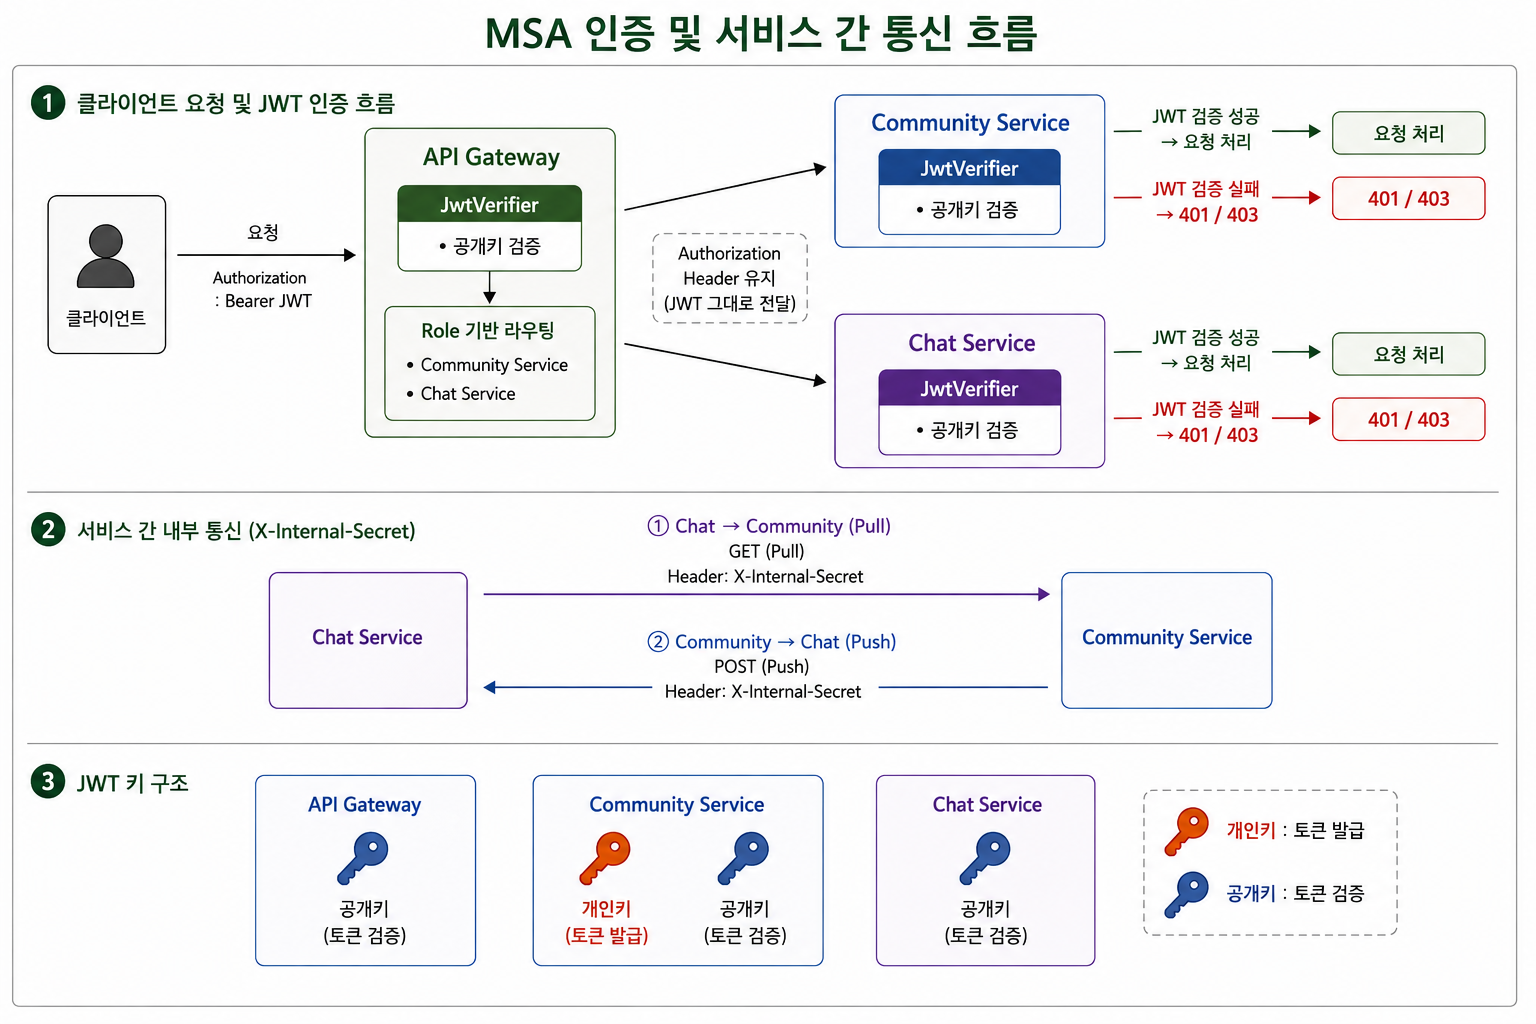
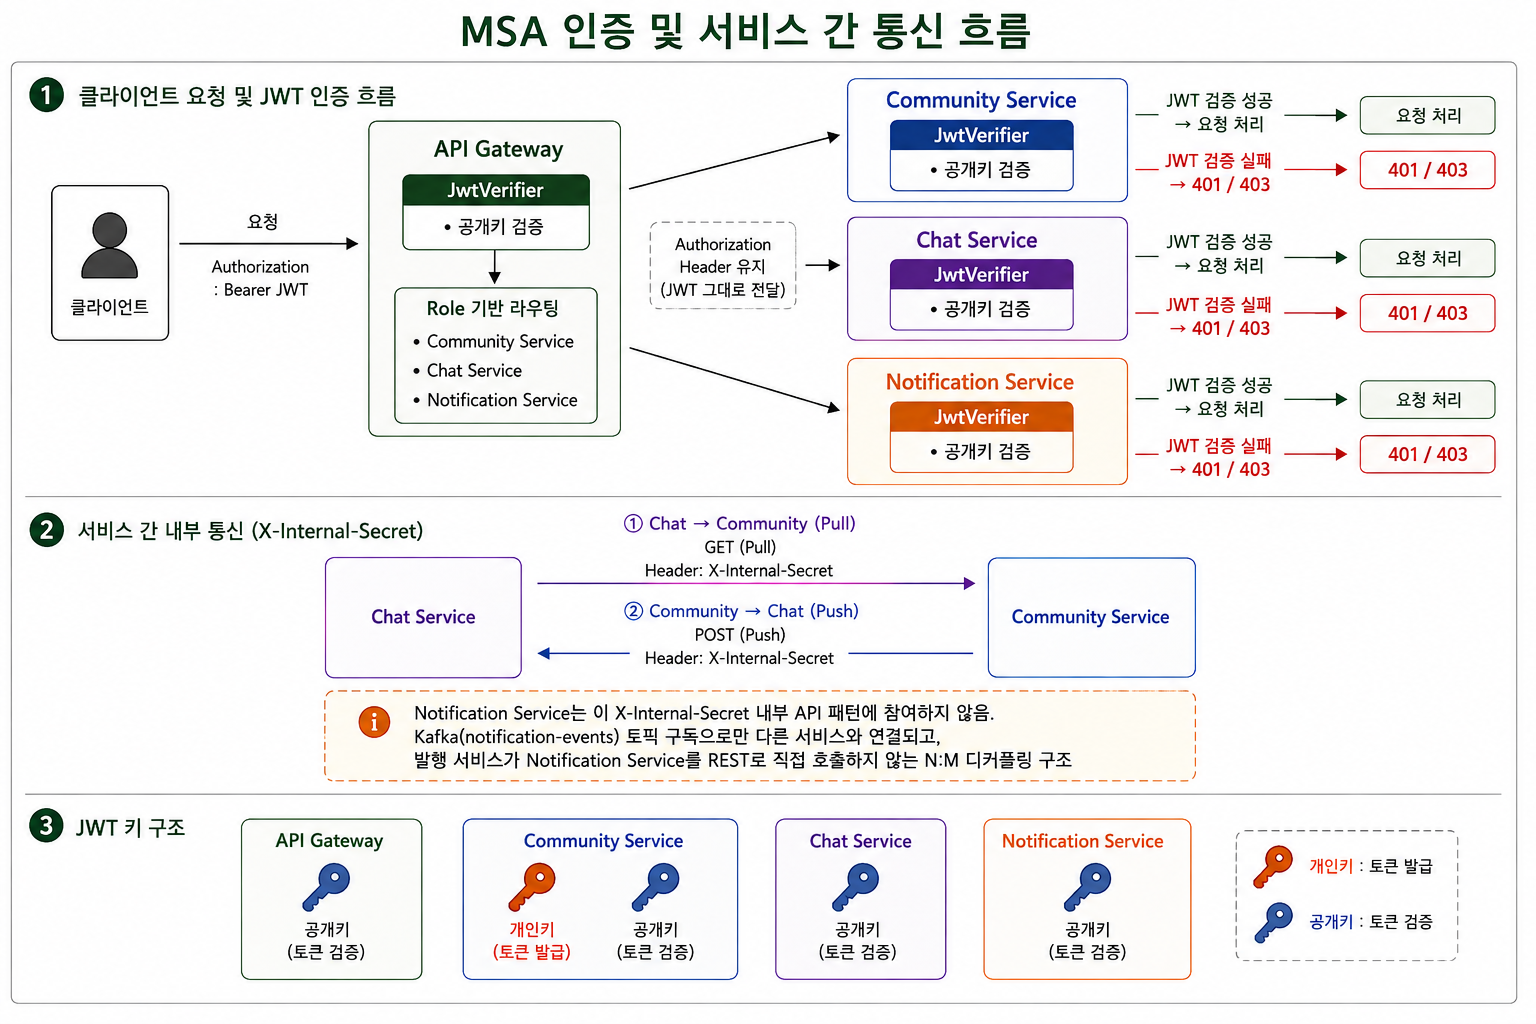
[refactor] 채팅 Redis Pub/Sub 브로드캐스트 도입 + 아키텍처 다이어그램 업데이트 (#48)
* [refactor:chat-service] STOMP 브로드캐스트를 Redis Pub/Sub 기반으로 전환

chat-service가 다중 인스턴스로 늘어나면 STOMP 심플 브로커가 인스턴스별
인메모리라 다른 인스턴스에 붙은 세션에는 메시지가 전달되지 않는 문제가
있었다. 전송 직전에 Redis 채널(chat:broadcast)로 먼저 발행하고 모든
인스턴스가 이를 구독해 각자 로컬 세션에 재전달하도록 변경 — 대상
세션이 그 인스턴스에 없으면 스프링이 조용히 무시하므로 별도 추적이
필요 없다. 아티스트 방송, 팬 메시지(echo·아티스트 inbox), 멤버십 만료
알림까지 SimpMessagingTemplate을 직접 호출하던 4곳 전부 이 경로로 통일.

로컬 도커로 chat-service 2인스턴스를 직접 띄워 교차 전달을 검증하는
과정에서, Spring Boot 4.1 기본 Jackson(tools.jackson) 대신 잘못된
Jackson 2 ObjectMapper를 주입받아 기동 자체가 실패하던 버그를 발견해
같이 수정.

* [readme] 아키텍처 다이어그램에 Notification Service·Kafka 반영

아키텍처/서비스 통신 다이어그램이 Notification Service·Kafka 도입
이전 상태로 남아있던 걸 갱신. API Gateway의 Notification Service
라우팅, outbox 발행→Kafka→consume 흐름, Redis 실제 용도(세션·캐시·
카운터·pub-sub 중계·알림저장) 라벨을 반영. README 이미지 참조 경로도
변경된 파일명(아키텍처 최최종.png)에 맞춰 수정.

* [fix:chat-service] 브로드캐스트 발행 시 Redis 장애도 흡수하도록 처리

ChatBroadcastPublisher.publish()가 JSON 직렬화 실패만 잡고 있어서, Redis
연결 장애 시 던져지는 DataAccessException이 그대로 STOMP 핸들러까지
전파돼 세션이 끊길 수 있었다(코드리뷰 지적). 메시지는 이미 DB에 저장된
뒤라 브로드캐스트 발행 실패가 요청 전체를 실패시킬 이유는 없어서,
MembershipCache와 동일한 fail-safe 방침으로 DataAccessException도
로그만 남기고 흡수하도록 수정.

diff --git a/chat-service/src/main/java/com/miniweverse/chat/broadcast/ChatBroadcastPublisher.java b/chat-service/src/main/java/com/miniweverse/chat/broadcast/ChatBroadcastPublisher.java
@@ -1,0 +1,62 @@
+package com.miniweverse.chat.broadcast;
+
+import com.miniweverse.chat.dto.ChatMessageResponse;
+import com.miniweverse.chat.membership.MembershipExpiredNotice;
+import org.slf4j.Logger;
+import org.slf4j.LoggerFactory;
+import org.springframework.dao.DataAccessException;
+import org.springframework.data.redis.core.StringRedisTemplate;
+import org.springframework.data.redis.listener.ChannelTopic;
+import org.springframework.stereotype.Component;
+import tools.jackson.core.JacksonException;
+import tools.jackson.databind.ObjectMapper;
+
+/**
+ * chat-service가 여러 인스턴스로 늘어나면 STOMP 심플 브로커는 인스턴스별 인메모리라
+ * 로컬로만 보내는 것으로는 다른 인스턴스에 붙은 세션까지 전달되지 않는다. 그래서 실제
+ * 전송 전에 Redis 채널로 먼저 발행해, 모든 인스턴스가 ChatBroadcastSubscriber를 통해
+ * 각자 로컬 세션에 다시 전달하게 한다(발행한 인스턴스 자신도 동일하게 구독해서 받는다).
+ */
+@Component
+public class ChatBroadcastPublisher {
+
+    private static final Logger log = LoggerFactory.getLogger(ChatBroadcastPublisher.class);
+
+    private final StringRedisTemplate redisTemplate;
+    private final ChannelTopic topic;
+    private final ObjectMapper objectMapper;
+
+    public ChatBroadcastPublisher(
+            StringRedisTemplate redisTemplate,
+            ChannelTopic chatBroadcastTopic,
+            ObjectMapper objectMapper
+    ) {
+        this.redisTemplate = redisTemplate;
+        this.topic = chatBroadcastTopic;
+        this.objectMapper = objectMapper;
+    }
+
+    public void toTopic(String destination, ChatMessageResponse payload) {
+        publish(ChatBroadcastEvent.toTopic(destination, ChatBroadcastEvent.PayloadType.CHAT_MESSAGE, payload));
+    }
+
+    public void toUser(String target, String destination, ChatMessageResponse payload) {
+        publish(ChatBroadcastEvent.toUser(target, destination, ChatBroadcastEvent.PayloadType.CHAT_MESSAGE, payload));
+    }
+
+    public void toUser(String target, String destination, MembershipExpiredNotice payload) {
+        publish(ChatBroadcastEvent.toUser(target, destination, ChatBroadcastEvent.PayloadType.MEMBERSHIP_EXPIRED_NOTICE, payload));
+    }
+
+    // 메시지 자체는 이미 DB에 저장된 뒤라, 브로드캐스트 발행 실패가 이 요청/세션 전체를
+    // 실패시킬 이유는 없다 — 로그만 남기고 흡수한다(MembershipCache와 동일한 fail-safe 방침).
+    private void publish(ChatBroadcastEvent event) {
+        try {
+            redisTemplate.convertAndSend(topic.getTopic(), objectMapper.writeValueAsString(event));
+        } catch (JacksonException e) {
+            log.error("채팅 브로드캐스트 이벤트 직렬화 실패, event={}", event, e);
+        } catch (DataAccessException e) {
+            log.error("채팅 브로드캐스트 이벤트 발행 실패(Redis), event={}", event, e);
+        }
+    }
+}

diff --git a/chat-service/src/main/java/com/miniweverse/chat/controller/ChatMessageStompController.java b/chat-service/src/main/java/com/miniweverse/chat/controller/ChatMessageStompController.java
@@ -1,5 +1,6 @@
 package com.miniweverse.chat.controller;
 
+import com.miniweverse.chat.broadcast.ChatBroadcastPublisher;
 import com.miniweverse.chat.dto.ChatMessageResponse;
 import com.miniweverse.chat.dto.ChatMessageSendRequest;
 import com.miniweverse.chat.repository.ChatRoomRepository;
@@ -11,7 +12,6 @@ import java.security.Principal;
 import org.springframework.messaging.handler.annotation.DestinationVariable;
 import org.springframework.messaging.handler.annotation.MessageMapping;
 import org.springframework.messaging.handler.annotation.Payload;
-import org.springframework.messaging.simp.SimpMessagingTemplate;
 import org.springframework.stereotype.Controller;
 
 /**
@@ -26,16 +26,16 @@ public class ChatMessageStompController {
 
     private final ChatMessageService chatMessageService;
     private final ChatRoomRepository chatRoomRepository;
-    private final SimpMessagingTemplate messagingTemplate;
+    private final ChatBroadcastPublisher broadcastPublisher;
 
     public ChatMessageStompController(
             ChatMessageService chatMessageService,
             ChatRoomRepository chatRoomRepository,
-            SimpMessagingTemplate messagingTemplate
+            ChatBroadcastPublisher broadcastPublisher
     ) {
         this.chatMessageService = chatMessageService;
         this.chatRoomRepository = chatRoomRepository;
-        this.messagingTemplate = messagingTemplate;
+        this.broadcastPublisher = broadcastPublisher;
     }
 
     @MessageMapping("/rooms/{artistId}/fan-message")
@@ -52,9 +52,9 @@ public class ChatMessageStompController {
                 .getOwnerUserId();
 
         // 보낸 팬 본인에게 echo (본인 UI에 저장 확정 반영)
-        messagingTemplate.convertAndSendToUser(fan.getName(), "/queue/rooms/" + artistId, response);
+        broadcastPublisher.toUser(fan.getName(), "/queue/rooms/" + artistId, response);
         // 아티스트 inbox — senderId로 어느 팬 스레드인지 클라이언트가 구분
-        messagingTemplate.convertAndSendToUser(String.valueOf(ownerUserId), "/queue/rooms/" + artistId + "/inbox", response);
+        broadcastPublisher.toUser(String.valueOf(ownerUserId), "/queue/rooms/" + artistId + "/inbox", response);
     }
 
     @MessageMapping("/rooms/{artistId}/artist-message")
@@ -67,6 +67,6 @@ public class ChatMessageStompController {
         ChatMessageResponse response = chatMessageService.sendArtistMessage(artistId, artist.userId(), request.content());
 
         // 방송: 이 방(topic)을 구독 중인 모든 팬에게 동시 전달
-        messagingTemplate.convertAndSend("/topic/rooms/" + artistId + "/broadcast", response);
+        broadcastPublisher.toTopic("/topic/rooms/" + artistId + "/broadcast", response);
     }
 }

diff --git a/chat-service/src/main/java/com/miniweverse/chat/broadcast/ChatBroadcastSubscriber.java b/chat-service/src/main/java/com/miniweverse/chat/broadcast/ChatBroadcastSubscriber.java
@@ -1,0 +1,52 @@
+package com.miniweverse.chat.broadcast;
+
+import com.miniweverse.chat.dto.ChatMessageResponse;
+import com.miniweverse.chat.membership.MembershipExpiredNotice;
+import org.slf4j.Logger;
+import org.slf4j.LoggerFactory;
+import org.springframework.data.redis.connection.Message;
+import org.springframework.data.redis.connection.MessageListener;
+import org.springframework.messaging.simp.SimpMessagingTemplate;
+import org.springframework.stereotype.Component;
+import tools.jackson.databind.ObjectMapper;
+
+/**
+ * 다른 인스턴스(자기 자신 포함)가 Redis로 발행한 브로드캐스트 이벤트를 받아 로컬 STOMP
+ * 브로커로 다시 전달한다. 대상 세션이 이 인스턴스에 없으면 스프링이 조용히 아무 일도
+ * 하지 않으므로, 어느 인스턴스에 대상이 붙어있는지 별도로 추적할 필요가 없다.
+ */
+@Component
+public class ChatBroadcastSubscriber implements MessageListener {
+
+    private static final Logger log = LoggerFactory.getLogger(ChatBroadcastSubscriber.class);
+
+    private final SimpMessagingTemplate messagingTemplate;
+    private final ObjectMapper objectMapper;
+
+    public ChatBroadcastSubscriber(SimpMessagingTemplate messagingTemplate, ObjectMapper objectMapper) {
+        this.messagingTemplate = messagingTemplate;
+        this.objectMapper = objectMapper;
+    }
+
+    @Override
+    public void onMessage(Message message, byte[] pattern) {
+        try {
+            ChatBroadcastEvent event = objectMapper.readValue(message.getBody(), ChatBroadcastEvent.class);
+            Object payload = toPayload(event);
+            if (event.routingType() == ChatBroadcastEvent.RoutingType.USER) {
+                messagingTemplate.convertAndSendToUser(event.target(), event.destination(), payload);
+            } else {
+                messagingTemplate.convertAndSend(event.destination(), payload);
+            }
+        } catch (Exception e) {
+            log.error("채팅 브로드캐스트 이벤트 처리 실패", e);
+        }
+    }
+
+    private Object toPayload(ChatBroadcastEvent event) {
+        return switch (event.payloadType()) {
+            case CHAT_MESSAGE -> objectMapper.convertValue(event.payload(), ChatMessageResponse.class);
+            case MEMBERSHIP_EXPIRED_NOTICE -> objectMapper.convertValue(event.payload(), MembershipExpiredNotice.class);
+        };
+    }
+}

diff --git a/chat-service/src/main/java/com/miniweverse/chat/membership/MembershipVerifier.java b/chat-service/src/main/java/com/miniweverse/chat/membership/MembershipVerifier.java
@@ -1,34 +1,28 @@
 package com.miniweverse.chat.membership;
 
+import com.miniweverse.chat.broadcast.ChatBroadcastPublisher;
 import java.time.LocalDateTime;
-import org.springframework.context.annotation.Lazy;
 import org.springframework.dao.DataIntegrityViolationException;
-import org.springframework.messaging.simp.SimpMessagingTemplate;
 import org.springframework.stereotype.Component;
 
-/**
- * ChatChannelInterceptor(SimpMessagingTemplate을 만드는 WebSocket 브로커 설정 자체가 의존하는
- * 빈)가 이 클래스를 참조하므로, SimpMessagingTemplate을 즉시(eager) 주입하면 순환 참조가 생긴다.
- * {@code @Lazy}로 실제 사용 시점까지 해석을 미뤄 순환을 끊는다.
- */
 @Component
 public class MembershipVerifier {
 
     private final MembershipClient membershipClient;
     private final MembershipCache membershipCache;
     private final MembershipPeriodRepository membershipPeriodRepository;
-    private final SimpMessagingTemplate messagingTemplate;
+    private final ChatBroadcastPublisher broadcastPublisher;
 
     public MembershipVerifier(
             MembershipClient membershipClient,
             MembershipCache membershipCache,
             MembershipPeriodRepository membershipPeriodRepository,
-            @Lazy SimpMessagingTemplate messagingTemplate
+            ChatBroadcastPublisher broadcastPublisher
     ) {
         this.membershipClient = membershipClient;
         this.membershipCache = membershipCache;
         this.membershipPeriodRepository = membershipPeriodRepository;
-        this.messagingTemplate = messagingTemplate;
+        this.broadcastPublisher = broadcastPublisher;
     }
 
     /**
@@ -85,7 +79,7 @@ public class MembershipVerifier {
                         membershipPeriodRepository.save(period);
                     });
         }
-        messagingTemplate.convertAndSendToUser(
+        broadcastPublisher.toUser(
                 String.valueOf(fanUserId),
                 "/queue/rooms/" + artistId + "/notice",
                 MembershipExpiredNotice.of(artistId)

diff --git a/chat-service/src/test/java/com/miniweverse/chat/membership/MembershipVerifierTest.java b/chat-service/src/test/java/com/miniweverse/chat/membership/MembershipVerifierTest.java
@@ -9,6 +9,7 @@ import static org.mockito.BDDMockito.willThrow;
 import static org.mockito.Mockito.never;
 import static org.mockito.Mockito.verify;
 
+import com.miniweverse.chat.broadcast.ChatBroadcastPublisher;
 import java.time.LocalDateTime;
 import java.util.Optional;
 import org.junit.jupiter.api.BeforeEach;
@@ -18,7 +19,6 @@ import org.junit.jupiter.api.extension.ExtendWith;
 import org.mockito.Mock;
 import org.mockito.junit.jupiter.MockitoExtension;
 import org.springframework.dao.DataIntegrityViolationException;
-import org.springframework.messaging.simp.SimpMessagingTemplate;
 
 @Tag("unit")
 @ExtendWith(MockitoExtension.class)
@@ -34,13 +34,13 @@ class MembershipVerifierTest {
     @Mock
     private MembershipPeriodRepository membershipPeriodRepository;
     @Mock
-    private SimpMessagingTemplate messagingTemplate;
+    private ChatBroadcastPublisher broadcastPublisher;
 
     private MembershipVerifier verifier;
 
     @BeforeEach
     void setUp() {
-        verifier = new MembershipVerifier(membershipClient, membershipCache, membershipPeriodRepository, messagingTemplate);
+        verifier = new MembershipVerifier(membershipClient, membershipCache, membershipPeriodRepository, broadcastPublisher);
     }
 
     @Test
@@ -107,8 +107,8 @@ class MembershipVerifierTest {
         verify(membershipCache).put(FAN_USER_ID, ARTIST_ID, false);
         assertThat(openPeriod.getEndedAt()).isEqualTo(endedAt);
         verify(membershipPeriodRepository).save(openPeriod);
-        verify(messagingTemplate).convertAndSendToUser(
-                eq(String.valueOf(FAN_USER_ID)), eq("/queue/rooms/" + ARTIST_ID + "/notice"), any(Object.class)
+        verify(broadcastPublisher).toUser(
+                eq(String.valueOf(FAN_USER_ID)), eq("/queue/rooms/" + ARTIST_ID + "/notice"), any(MembershipExpiredNotice.class)
         );
     }
 }

diff --git a/chat-service/src/main/java/com/miniweverse/chat/config/ChatBroadcastRedisConfig.java b/chat-service/src/main/java/com/miniweverse/chat/config/ChatBroadcastRedisConfig.java
@@ -1,0 +1,31 @@
+package com.miniweverse.chat.config;
+
+import com.miniweverse.chat.broadcast.ChatBroadcastSubscriber;
+import org.springframework.context.annotation.Bean;
+import org.springframework.context.annotation.Configuration;
+import org.springframework.data.redis.connection.RedisConnectionFactory;
+import org.springframework.data.redis.listener.ChannelTopic;
+import org.springframework.data.redis.listener.RedisMessageListenerContainer;
+
+@Configuration
+public class ChatBroadcastRedisConfig {
+
+    private static final String CHANNEL = "chat:broadcast";
+
+    @Bean
+    public ChannelTopic chatBroadcastTopic() {
+        return new ChannelTopic(CHANNEL);
+    }
+
+    @Bean
+    public RedisMessageListenerContainer chatBroadcastListenerContainer(
+            RedisConnectionFactory connectionFactory,
+            ChatBroadcastSubscriber subscriber,
+            ChannelTopic chatBroadcastTopic
+    ) {
+        RedisMessageListenerContainer container = new RedisMessageListenerContainer();
+        container.setConnectionFactory(connectionFactory);
+        container.addMessageListener(subscriber, chatBroadcastTopic);
+        return container;
+    }
+}

diff --git a/chat-service/src/main/java/com/miniweverse/chat/broadcast/ChatBroadcastEvent.java b/chat-service/src/main/java/com/miniweverse/chat/broadcast/ChatBroadcastEvent.java
@@ -1,0 +1,23 @@
+package com.miniweverse.chat.broadcast;
+
+public record ChatBroadcastEvent(
+        RoutingType routingType,
+        String target,
+        String destination,
+        PayloadType payloadType,
+        Object payload
+) {
+
+    public enum RoutingType { TOPIC, USER }
+
+    /** 구독 인스턴스가 payload(역직렬화 시 Map)를 어떤 DTO로 되돌릴지 판단하는 기준. */
+    public enum PayloadType { CHAT_MESSAGE, MEMBERSHIP_EXPIRED_NOTICE }
+
+    public static ChatBroadcastEvent toTopic(String destination, PayloadType payloadType, Object payload) {
+        return new ChatBroadcastEvent(RoutingType.TOPIC, null, destination, payloadType, payload);
+    }
+
+    public static ChatBroadcastEvent toUser(String target, String destination, PayloadType payloadType, Object payload) {
+        return new ChatBroadcastEvent(RoutingType.USER, target, destination, payloadType, payload);
+    }
+}

diff --git a/README.md b/README.md
@@ -109,7 +109,7 @@ mini_weverse는 커뮤니티·멤버십·실시간 채팅이 독립된 서비스
 
 ### 🏗 1.4 아키텍처
 
-![아키텍처 다이어그램](image/아키텍처%20최종.png)
+![아키텍처 다이어그램](image/아키텍처%20최최종.png)
 
 **MSA 도입**
 - **Chat Service를 별도 서비스로 분리**: 채팅은 트래픽 패턴상 스케일 아웃이 잦을 것으로 예상돼, Community Service와 묶여있으면 채팅 부하 때문에 커뮤니티 기능까지 같이 늘려야 하는 낭비가 생김. 독립시켜서 채팅만 따로 확장 가능하게 함
